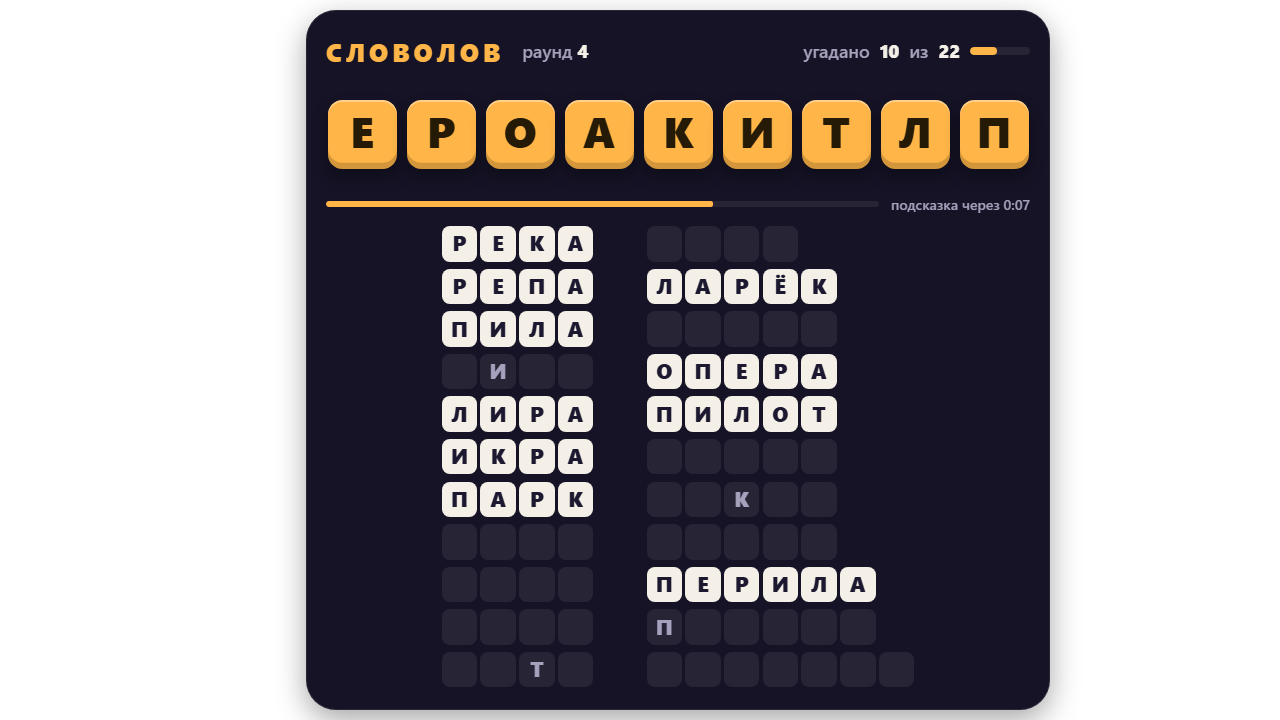
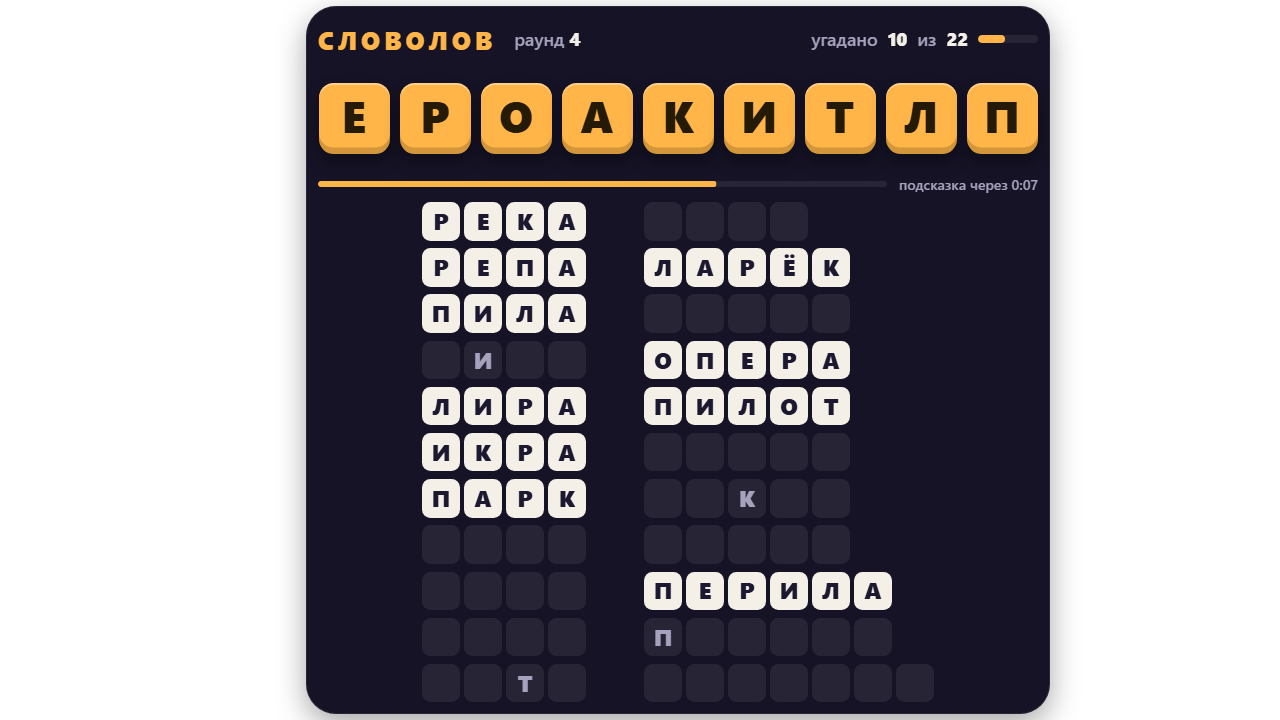
Оверлей: фон до краёв, окошко под вебку у края и одно для всех игр, меньше отступов

diff --git a/site/css/overlay.css b/site/css/overlay.css
@@ -2,6 +2,7 @@
   --accent: #ffb547;
   --accent-ink: #241a06;
   --card: #151325;
+  --backdrop: #0c0a16;
   --line: rgba(255, 255, 255, .09);
   --ink: #f4f0e8;
   --ink-dark: #1b1830;
@@ -31,8 +32,8 @@ body {
 }
 
 .card {
-  position: absolute; inset: 10px; z-index: 0; padding: 18px 20px;
-  display: grid; gap: 14px 16px;
+  position: absolute; inset: 6px; z-index: 0; padding: 10px 12px;
+  display: grid; gap: 8px 20px;
   grid-template: "chat main side" minmax(0, 1fr) "cam main side" 210px / 280px minmax(0, 1fr) 204px;
   border-radius: 30px; overflow: hidden;
   box-shadow: 0 10px 30px rgba(0, 0, 0, .35);
@@ -41,6 +42,14 @@ body {
   content: ""; position: absolute; inset: 0; border-radius: inherit; pointer-events: none;
   box-shadow: inset 0 0 0 1px var(--line);
 }
+#stage::before {
+  content: ""; position: absolute; left: 18px; top: 494px; z-index: -1; width: 280px; height: 210px;
+  border-radius: 18px; box-shadow: 0 0 0 1400px var(--backdrop); clip-path: inset(-494px -982px -16px -18px);
+}
+.nocam #stage::before {
+  inset: 0; width: auto; height: auto; border-radius: 0; box-shadow: none; background: var(--backdrop);
+}
+.nochat #stage::before, .noside #stage::before, .nobg #stage::before { display: none; }
 
 .cam { grid-area: cam; position: relative; z-index: -1; border-radius: 18px; box-shadow: 0 0 0 2000px var(--card); }
 .cam::after {
@@ -67,7 +76,7 @@ body {
 }
 .nobg .list { background: rgba(21, 19, 37, .78); }
 
-.main { grid-area: main; min-width: 0; min-height: 0; display: flex; flex-direction: column; gap: 12px; }
+.main { grid-area: main; min-width: 0; min-height: 0; display: flex; flex-direction: column; gap: 8px; }
 
 .head { flex: none; height: 46px; display: flex; align-items: center; gap: 18px; min-width: 0; }
 .brand { font-weight: 900; font-size: 25px; letter-spacing: .16em; text-transform: uppercase; color: var(--accent); }
@@ -92,7 +101,7 @@ body {
   display: block; height: 100%; width: 0; border-radius: 4px; background: var(--accent); transition: width .4s ease;
 }
 
-.play { flex: 1; min-height: 0; display: grid; grid-template-rows: 96px 20px minmax(0, 1fr); gap: 12px; }
+.play { flex: 1; min-height: 0; display: grid; grid-template-rows: 96px 20px minmax(0, 1fr); gap: 8px; }
 .play.dense { grid-template-rows: 74px 20px minmax(0, 1fr); }
 .play.enter { animation: play-in .55s cubic-bezier(.2, .9, .3, 1); }
 @keyframes play-in { from { opacity: 0; transform: translateY(16px) scale(.97); } }
@@ -210,7 +219,7 @@ body {
 .boards .place { width: 24px; font-size: 16px; }
 .boards ol li.note { font-size: 16px; }
 
-.side { grid-area: side; display: flex; flex-direction: column; gap: 12px; min-width: 0; min-height: 0; }
+.side { grid-area: side; display: flex; flex-direction: column; gap: 8px; min-width: 0; min-height: 0; }
 .side .grow { flex: 1; min-height: 0; overflow: hidden; }
 .results #box-round { box-shadow: inset 0 0 0 2px var(--accent); }
 .results #box-round h3 { color: var(--accent); }
